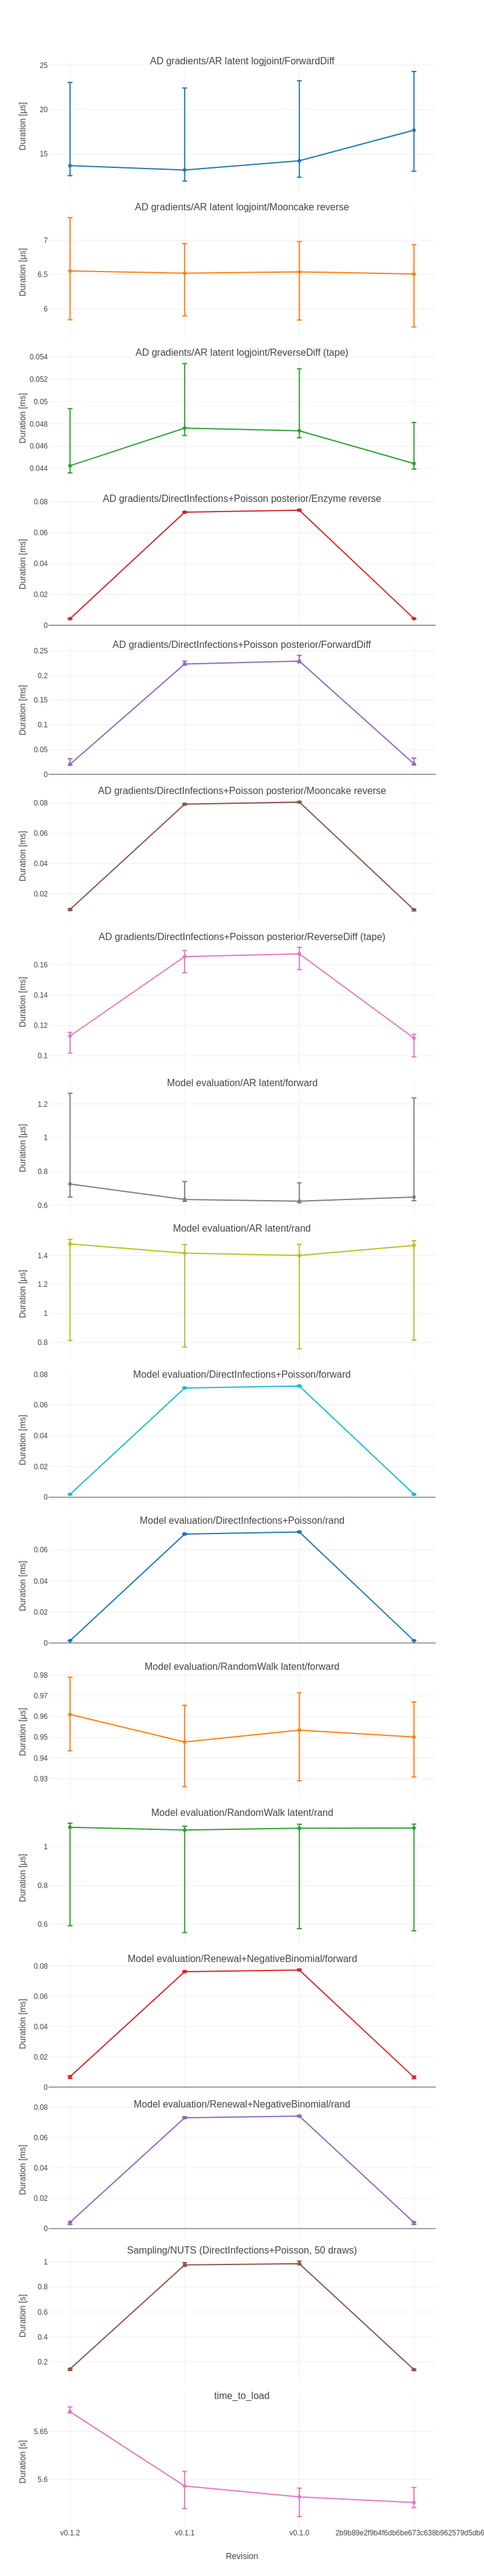
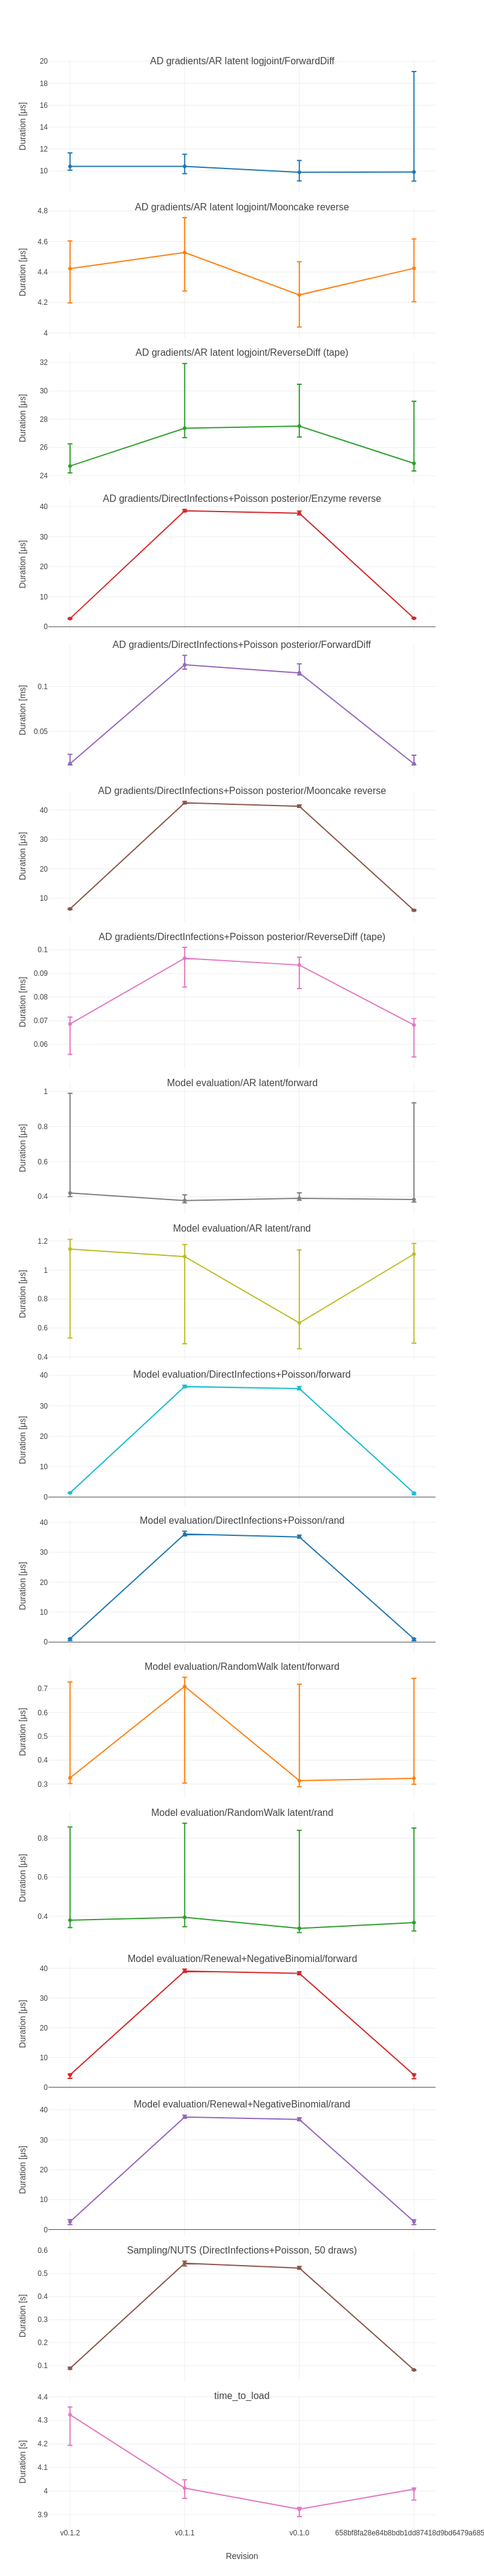
Deploying to benchmarks from @ EpiAware/ComposableTuringIDModels.jl@658bf8fa28e84b8bdb1dd87418d9bd6479a68571 🚀

diff --git a/history/table.md b/history/table.md
@@ -1,24 +1,24 @@
-|                                                                    | v0.1.2             | v0.1.1              | v0.1.0              | 2b9b89e2f9b4f6...  |
-|:-------------------------------------------------------------------|:------------------:|:-------------------:|:-------------------:|:------------------:|
-| AD gradients/AR latent logjoint/ForwardDiff                        | 13.7 ± 10 μs       | 13.2 ± 10 μs        | 14.2 ± 11 μs        | 17.7 ± 11 μs       |
-| AD gradients/AR latent logjoint/Mooncake reverse                   | 6.55 ± 1.5 μs      | 6.52 ± 1.1 μs       | 6.54 ± 1.1 μs       | 6.51 ± 1.2 μs      |
-| AD gradients/AR latent logjoint/ReverseDiff (tape)                 | 0.0442 ± 0.0058 ms | 0.0476 ± 0.0064 ms  | 0.0474 ± 0.0062 ms  | 0.0444 ± 0.0042 ms |
-| AD gradients/DirectInfections+Poisson posterior/Enzyme reverse     | 4.22 ± 0.32 μs     | 0.0733 ± 0.00083 ms | 0.0747 ± 0.00082 ms | 4.28 ± 0.31 μs     |
-| AD gradients/DirectInfections+Poisson posterior/ForwardDiff        | 20 ± 13 μs         | 0.223 ± 0.0081 ms   | 0.229 ± 0.015 ms    | 21 ± 14 μs         |
-| AD gradients/DirectInfections+Poisson posterior/Mooncake reverse   | 9.56 ± 1.1 μs      | 0.0793 ± 0.00078 ms | 0.0807 ± 0.0008 ms  | 9.35 ± 1.2 μs      |
-| AD gradients/DirectInfections+Poisson posterior/ReverseDiff (tape) | 0.113 ± 0.014 ms   | 0.165 ± 0.015 ms    | 0.167 ± 0.015 ms    | 0.112 ± 0.015 ms   |
-| Model evaluation/AR latent/forward                                 | 0.725 ± 0.62 μs    | 0.634 ± 0.12 μs     | 0.623 ± 0.12 μs     | 0.648 ± 0.61 μs    |
-| Model evaluation/AR latent/rand                                    | 1.48 ± 0.7 μs      | 1.42 ± 0.71 μs      | 1.4 ± 0.72 μs       | 1.47 ± 0.69 μs     |
-| Model evaluation/DirectInfections+Poisson/forward                  | 1.86 ± 0.17 μs     | 0.0711 ± 0.00084 ms | 0.0724 ± 0.00076 ms | 1.9 ± 0.4 μs       |
-| Model evaluation/DirectInfections+Poisson/rand                     | 1.5 ± 0.054 μs     | 0.0703 ± 0.0007 ms  | 0.0716 ± 0.00071 ms | 1.51 ± 0.06 μs     |
-| Model evaluation/RandomWalk latent/forward                         | 0.961 ± 0.036 μs   | 0.948 ± 0.039 μs    | 0.953 ± 0.043 μs    | 0.95 ± 0.036 μs    |
-| Model evaluation/RandomWalk latent/rand                            | 1.1 ± 0.53 μs      | 1.09 ± 0.55 μs      | 1.1 ± 0.54 μs       | 1.1 ± 0.55 μs      |
-| Model evaluation/Renewal+NegativeBinomial/forward                  | 6.85 ± 1.7 μs      | 0.0763 ± 0.00095 ms | 0.0774 ± 0.00089 ms | 6.5 ± 1.7 μs       |
-| Model evaluation/Renewal+NegativeBinomial/rand                     | 4.1 ± 1.8 μs       | 0.0732 ± 0.0011 ms  | 0.0742 ± 0.001 ms   | 4.04 ± 1.8 μs      |
-| Sampling/NUTS (DirectInfections+Poisson, 50 draws)                 | 0.143 ± 0.015 s    | 0.977 ± 0.03 s      | 0.986 ± 0.025 s     | 0.139 ± 0.011 s    |
-| time_to_load                                                       | 5.67 ± 0.0061 s    | 5.59 ± 0.038 s      | 5.58 ± 0.029 s      | 5.58 ± 0.021 s     |
+|                                                                    | v0.1.2            | v0.1.1              | v0.1.0              | 658bf8fa28e84b... |
+|:-------------------------------------------------------------------|:-----------------:|:-------------------:|:-------------------:|:-----------------:|
+| AD gradients/AR latent logjoint/ForwardDiff                        | 10.4 ± 1.6 μs     | 10.4 ± 1.8 μs       | 9.87 ± 1.9 μs       | 9.9 ± 10 μs       |
+| AD gradients/AR latent logjoint/Mooncake reverse                   | 4.42 ± 0.41 μs    | 4.53 ± 0.48 μs      | 4.25 ± 0.43 μs      | 4.42 ± 0.41 μs    |
+| AD gradients/AR latent logjoint/ReverseDiff (tape)                 | 24.7 ± 2.1 μs     | 27.4 ± 5.2 μs       | 27.5 ± 3.7 μs       | 24.9 ± 4.9 μs     |
+| AD gradients/DirectInfections+Poisson posterior/Enzyme reverse     | 2.7 ± 0.27 μs     | 0.0386 ± 0.00082 ms | 0.0378 ± 0.0013 ms  | 2.81 ± 0.29 μs    |
+| AD gradients/DirectInfections+Poisson posterior/ForwardDiff        | 13.8 ± 12 μs      | 0.124 ± 0.015 ms    | 0.115 ± 0.012 ms    | 13.7 ± 11 μs      |
+| AD gradients/DirectInfections+Poisson posterior/Mooncake reverse   | 6.34 ± 0.45 μs    | 0.0425 ± 0.00081 ms | 0.0413 ± 0.00085 ms | 5.85 ± 0.41 μs    |
+| AD gradients/DirectInfections+Poisson posterior/ReverseDiff (tape) | 0.0686 ± 0.016 ms | 0.0965 ± 0.017 ms   | 0.0936 ± 0.013 ms   | 0.0681 ± 0.016 ms |
+| Model evaluation/AR latent/forward                                 | 0.42 ± 0.59 μs    | 0.377 ± 0.046 μs    | 0.39 ± 0.043 μs     | 0.383 ± 0.57 μs   |
+| Model evaluation/AR latent/rand                                    | 1.14 ± 0.68 μs    | 1.09 ± 0.69 μs      | 0.635 ± 0.68 μs     | 1.11 ± 0.69 μs    |
+| Model evaluation/DirectInfections+Poisson/forward                  | 1.38 ± 0.091 μs   | 0.0363 ± 0.00076 ms | 0.0357 ± 0.0011 ms  | 1.32 ± 0.6 μs     |
+| Model evaluation/DirectInfections+Poisson/rand                     | 1.1 ± 0.68 μs     | 0.0361 ± 0.0015 ms  | 0.0351 ± 0.00098 ms | 1.05 ± 0.69 μs    |
+| Model evaluation/RandomWalk latent/forward                         | 0.326 ± 0.43 μs   | 0.709 ± 0.44 μs     | 0.314 ± 0.43 μs     | 0.324 ± 0.44 μs   |
+| Model evaluation/RandomWalk latent/rand                            | 0.379 ± 0.52 μs   | 0.394 ± 0.53 μs     | 0.338 ± 0.53 μs     | 0.367 ± 0.53 μs   |
+| Model evaluation/Renewal+NegativeBinomial/forward                  | 4.15 ± 1.5 μs     | 0.039 ± 0.0011 ms   | 0.0383 ± 0.001 ms   | 4.15 ± 1.6 μs     |
+| Model evaluation/Renewal+NegativeBinomial/rand                     | 2.62 ± 1.7 μs     | 0.0376 ± 0.001 ms   | 0.0368 ± 0.00099 ms | 2.65 ± 1.6 μs     |
+| Sampling/NUTS (DirectInfections+Poisson, 50 draws)                 | 0.0879 ± 0.008 s  | 0.545 ± 0.021 s     | 0.524 ± 0.012 s     | 0.0817 ± 0.0042 s |
+| time_to_load                                                       | 4.32 ± 0.16 s     | 4.01 ± 0.079 s      | 3.92 ± 0.039 s      | 4.01 ± 0.052 s    |
 
-|                                                                    | v0.1.2                    | v0.1.1                    | v0.1.0                    | 2b9b89e2f9b4f6...         |
+|                                                                    | v0.1.2                    | v0.1.1                    | v0.1.0                    | 658bf8fa28e84b...         |
 |:-------------------------------------------------------------------|:-------------------------:|:-------------------------:|:-------------------------:|:-------------------------:|
 | AD gradients/AR latent logjoint/ForwardDiff                        | 0.059 k allocs: 0.0512 MB | 0.056 k allocs: 0.0508 MB | 0.056 k allocs: 0.0508 MB | 0.059 k allocs: 0.0512 MB |
 | AD gradients/AR latent logjoint/Mooncake reverse                   | 0.043 k allocs: 4.64 kB   | 0.036 k allocs: 4.42 kB   | 0.036 k allocs: 4.42 kB   | 0.043 k allocs: 4.64 kB   |
@@ -36,5 +36,5 @@
 | Model evaluation/Renewal+NegativeBinomial/forward                  | 0.153 k allocs: 8.28 kB   | 0.57 k allocs: 23.7 kB    | 0.57 k allocs: 23.7 kB    | 0.153 k allocs: 8.28 kB   |
 | Model evaluation/Renewal+NegativeBinomial/rand                     | 0.148 k allocs: 8.38 kB   | 0.567 k allocs: 23 kB     | 0.567 k allocs: 23 kB     | 0.148 k allocs: 8.38 kB   |
 | Sampling/NUTS (DirectInfections+Poisson, 50 draws)                 | 0.479 M allocs: 0.269 GB  | 2.99 M allocs: 0.371 GB   | 2.99 M allocs: 0.371 GB   | 0.479 M allocs: 0.269 GB  |
-| time_to_load                                                       | 0.15 k allocs: 11.7 kB    | 0.15 k allocs: 11.7 kB    | 0.15 k allocs: 11.7 kB    | 0.15 k allocs: 11.7 kB    |
+| time_to_load                                                       | 0.15 k allocs: 11.7 kB    | 0.15 k allocs: 11.7 kB    | 0.15 k allocs: 11.7 kB    | 0.149 k allocs: 11.2 kB   |
 

diff --git a/history/README.md b/history/README.md
@@ -1,6 +1,6 @@
 # ComposableTuringIDModels.jl benchmark history
 
-Revisions: v0.1.2,v0.1.1,v0.1.0,2b9b89e2f9b4f6db6be673c638b962579d5db67a
+Revisions: v0.1.2,v0.1.1,v0.1.0,658bf8fa28e84b8bdb1dd87418d9bd6479a68571
 
 See `table.md` for the ratio summary and the PNG
 files in this folder for per-benchmark timelines.
